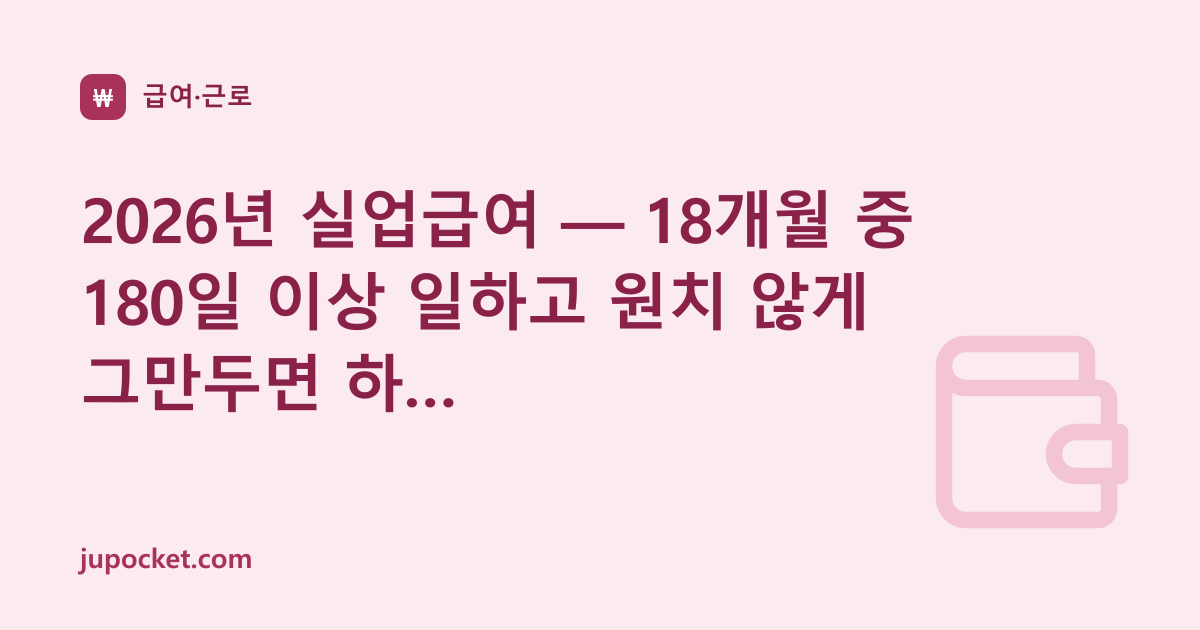
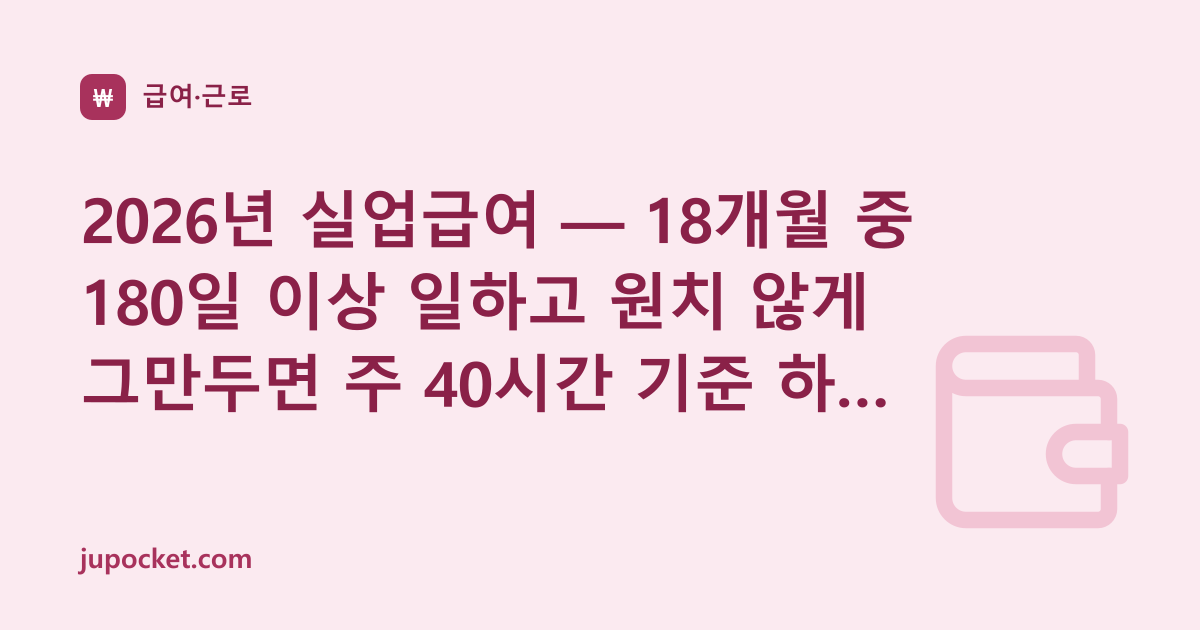
fix: 실업급여 — 계산기 이직일 범위, 온라인 신고 근거, 구직활동 인정 10가지, 허브 제목 주 40시간
- 계산기: 2026. 1. 1.~2027. 12. 31. 이직만 계산(그 전은 종전 상한, 2028년부터 제45조 개정) — 범위 밖은 안내만
- 신청방법: 온라인 실업 신고 사유를 시행규칙 제82조로, 이직확인서 10일(제82조의2), 재취업활동 인정 10가지(제87조)
- 허브 제목의 하루 66,048~68,100원에 '주 40시간 기준'

Changed region(s): [[0.2775, 0.5429, 0.74, 0.6635]]

diff --git a/src/data/clusters.ts b/src/data/clusters.ts
@@ -270,7 +270,7 @@ export const clusters: Cluster[] = [
       { href: "/guide/annual-leave-pay/", title: "연차수당 — 쓰지 못하고 넘어간 연차 하루마다 1일 통상임금을 받습니다", kind: "guide", icon: "wallet", year: 2026 },
       { href: "/guide/annual-leave-days/", title: "연차 발생기준 — 입사 첫해는 한 달 개근마다 1일, 1년 80% 출근하면 15일, 2년마다 1일씩 늘어 25일까지", kind: "guide", icon: "wallet", year: 2026 },
       { href: "/guide/annual-leave-calculator/", title: "연차 계산기", kind: "calc", icon: "calculator", blurb: "입사일·기준일 → 생긴 연차, 월급·남은 일수 → 연차수당" },
-      { href: "/guide/unemployment-benefit/", title: "실업급여 — 18개월 중 180일 이상 일하고 원치 않게 그만두면 하루 66,048~68,100원을 120~270일 받습니다", kind: "guide", icon: "wallet", year: 2026 },
+      { href: "/guide/unemployment-benefit/", title: "실업급여 — 18개월 중 180일 이상 일하고 원치 않게 그만두면 주 40시간 기준 하루 66,048~68,100원을 120~270일 받습니다", kind: "guide", icon: "wallet", year: 2026 },
       { href: "/guide/unemployment-benefit-criteria/", title: "실업급여 조건 — 18개월 중 180일 가입, 비자발적 이직, 재취업 노력이면 자진 퇴사도 받을 수 있습니다", kind: "guide", icon: "wallet", year: 2026 },
       { href: "/guide/unemployment-benefit-calculator/", title: "실업급여 계산기", kind: "calc", icon: "calculator", blurb: "월급·근무시간·나이·가입기간 → 하루 구직급여·받는 날수·총액" },
       { href: "/guide/unemployment-benefit-apply/", title: "실업급여 신청방법 — 이직 후 바로 실업 신고, 수급자격 인정, 1~4주마다 실업인정 세 단계입니다", kind: "guide", icon: "wallet", year: 2026 },

diff --git a/src/scripts/unemployment.ts b/src/scripts/unemployment.ts
@@ -22,6 +22,12 @@ const parse = (v: string) => {
 
 function render() {
   const d = parse(leave.value) ?? new Date();
+  // 2026. 1. 1. 전 이직자는 종전 상한(시행령 부칙), 2028. 1. 1.부터는 기초일액 산정 방식이 바뀐다(법 제45조 개정) — 계산하지 않는다
+  if (d < new Date(2026, 0, 1) || d > new Date(2027, 11, 31)) {
+    for (const id of ["ub-hero", "ub-daily", "ub-days", "ub-avg", "ub-which"]) $(id).textContent = "—";
+    $("ub-note").textContent = "2026년 1월 1일~2027년 12월 31일 이직만 계산합니다. 그 전은 종전 상한, 2028년부터는 기초일액 산정 방식이 바뀝니다.";
+    return;
+  }
   const h = Number(hours.value) || 0;
   const x = unemploymentBenefit({
     wage3m: parseAmount(pay.value) * 3,
